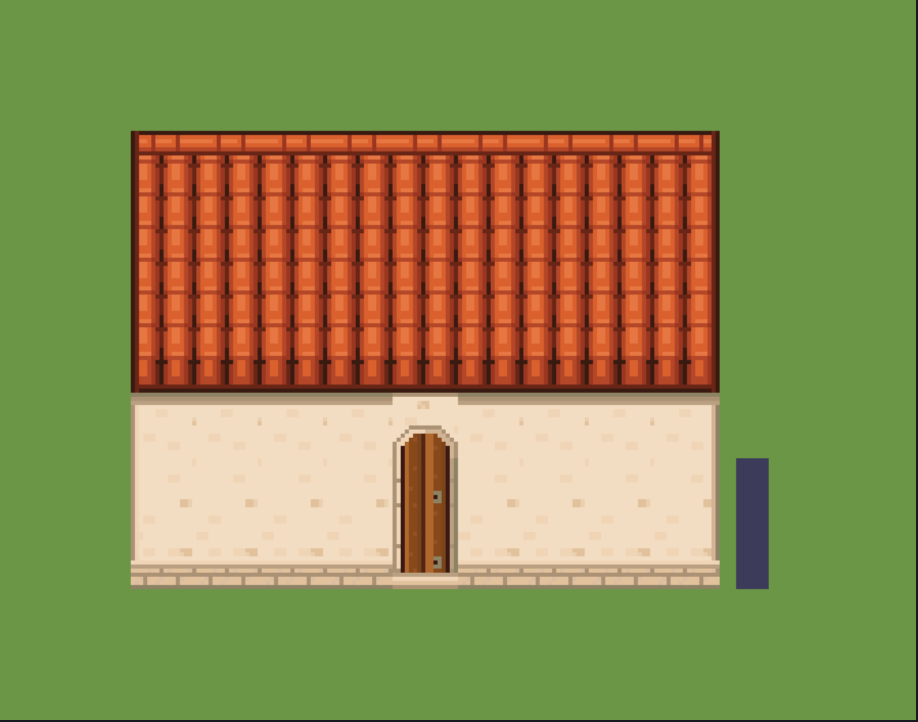
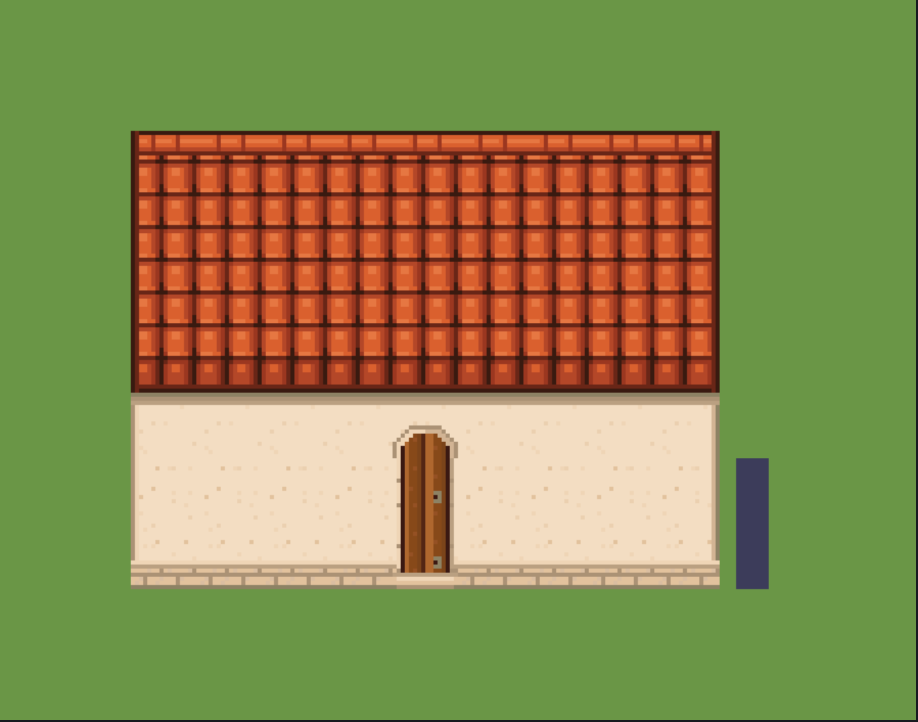
Draw doors and windows over the wall, and refine the kit's shading
Doors and windows are now overlays on the wall pieces, so the shadow under the
eave and the moulding between floors run on around them instead of breaking at
the door. The kit's tiles get clearer courses, the plaster calmer marks that do
not show the tile repeat, the floorboards plank ends at varied places, and the
wall tops a smoother surface.

diff --git a/Tools/Vulcanus/app/src/lib/buildings/layout.test.ts b/Tools/Vulcanus/app/src/lib/buildings/layout.test.ts
@@ -14,10 +14,10 @@ import {
 
 const farmhouse = () => floorPlan(farmhouseBuilding(), 0);
 
-/** The non-overlay pieces as rows of names, for comparing with the tables of the rules. */
+/** The pieces as rows of names, the last drawn on top, without the chimney and stairs standing on them. */
 const asRows = (placements: Placement[], width: number) => {
   const rows: string[][] = [];
-  for (const p of placements.filter((p) => !p.overlay)) {
+  for (const p of placements.filter((p) => !/^(chimney|stairs)/.test(p.piece))) {
     rows[p.row] ??= Array.from({ length: width }, () => '');
     rows[p.row][p.column] = p.piece;
   }
@@ -72,9 +72,14 @@ describe('exterior', () => {
     expect(rows[4]).toEqual(wall('wall_top', 9, { 6: 'door_lintel' }));
     expect(rows[5]).toEqual(wall('wall_mid', 9, { 2: 'window', 6: 'door_upper', 7: 'window' }));
     expect(rows[6]).toEqual(wall('wall_base', 9, { 6: 'door_lower' }));
-    expect(placements.filter((p) => p.overlay)).toEqual([
+    expect(placements.filter((p) => p.piece.startsWith('chimney'))).toEqual([
       { piece: 'chimney_top', column: 2, row: 0, overlay: true },
       { piece: 'chimney_bottom', column: 2, row: 1, overlay: true },
+    ]);
+    // The door is drawn over the wall, so the wall's shadow under the eave runs on behind it.
+    expect(placements.filter((p) => p.column === 6 && p.row === 4).map((p) => p.piece)).toEqual([
+      'wall_top_m',
+      'door_lintel',
     ]);
   });
 
@@ -175,7 +180,11 @@ describe('exterior', () => {
       'roof_eave_m',
     ]);
     // The chimney stands on the wing's ridge.
-    expect(placements.filter((p) => p.overlay).map((p) => [p.piece, p.column, p.row])).toEqual([
+    expect(
+      placements
+        .filter((p) => p.piece.startsWith('chimney'))
+        .map((p) => [p.piece, p.column, p.row]),
+    ).toEqual([
       ['chimney_top', 1, 3],
       ['chimney_bottom', 1, 4],
     ]);

diff --git a/Tools/Vulcanus/app/src/lib/buildings/layout.ts b/Tools/Vulcanus/app/src/lib/buildings/layout.ts
@@ -141,11 +141,11 @@ export function layoutExterior(building: Building): Placement[] {
     ];
     for (let column = 0; column < columns; column++)
       rows.forEach((kind, i) => {
-        let piece = `${kind}_${side(column, columns)}`;
+        place(`${kind}_${side(column, columns)}`, column, top + i);
+        // Doors and windows are drawn over the wall, so its shadows and mouldings run on around them.
         if (index === 0 && column === doorColumn)
-          piece = ['door_lintel', 'door_upper', 'door_lower'][i];
-        else if (i === 1 && windows.has(column)) piece = 'window';
-        place(piece, column, top + i);
+          place(['door_lintel', 'door_upper', 'door_lower'][i], column, top + i, true);
+        else if (i === 1 && windows.has(column)) place('window', column, top + i, true);
       });
   });
 

diff --git a/Tools/Vulcanus/app/src/lib/buildings/kitLayout.test.ts b/Tools/Vulcanus/app/src/lib/buildings/kitLayout.test.ts
@@ -13,7 +13,7 @@ describe('kit layout', () => {
     }
   });
 
-  it('has every piece the building rules use, with the chimney and stairs as the only overlays', () => {
+  it('has every piece the building rules use, with openings, the chimney and stairs as the overlays', () => {
     const names = new Set(KIT_LAYOUT.map((slot) => slot.name));
     for (const name of [
       'roof_ridge_l',
@@ -52,6 +52,10 @@ describe('kit layout', () => {
     ])
       expect(names.has(name), name).toBe(true);
     expect(KIT_LAYOUT.filter((slot) => slot.overlay).map((slot) => slot.name)).toEqual([
+      'door_lintel',
+      'door_upper',
+      'door_lower',
+      'window',
       'chimney_top',
       'chimney_bottom',
       'stairs_up',

diff --git a/Tools/Vulcanus/app/src/lib/buildings/kitLayout.ts b/Tools/Vulcanus/app/src/lib/buildings/kitLayout.ts
@@ -57,10 +57,10 @@ export const KIT_LAYOUT: readonly KitPieceSlot[] = [
   ...row3('wall_top', 3, 'wall'),
   ...row3('wall_mid', 4, 'wall'),
   ...row3('wall_base', 5, 'wall'),
-  slot('door_lintel', 4, 3, 'opening'),
-  slot('door_upper', 4, 4, 'opening'),
-  slot('door_lower', 4, 5, 'opening'),
-  slot('window', 5, 4, 'opening'),
+  slot('door_lintel', 4, 3, 'opening', { overlay: true }),
+  slot('door_upper', 4, 4, 'opening', { overlay: true }),
+  slot('door_lower', 4, 5, 'opening', { overlay: true }),
+  slot('window', 5, 4, 'opening', { overlay: true }),
   slot('gable_back_l', 7, 0, 'roof'),
   slot('gable_ridge', 8, 0, 'roof'),
   slot('gable_back_r', 9, 0, 'roof'),

diff --git a/Tools/Vulcanus/app/docs/building-editor.md b/Tools/Vulcanus/app/docs/building-editor.md
@@ -62,8 +62,8 @@ From the top, the exterior image has:
      needed so the gable has a middle) and side gable wings on both sides, each at least 2 columns wide.
 2. **The walls**, 3 rows per floor, top floor first: `wall_top` (under the eave) or `wall_band` (under the floor
    above), `wall_mid`, and `wall_base` for the ground floor or `wall_mid` above it. Each floor's south windows show as
-   `window` in its middle row; the entrance shows as `door_lintel`, `door_upper`, `door_lower` in the ground floor's
-   rows.
+   `window` over its middle row; the entrance shows as `door_lintel`, `door_upper`, `door_lower` over the ground
+   floor's rows. Doors and windows are overlays, so the wall's shadows and mouldings run on around them.
 3. **The chimney**: `chimney_top` on the highest roof row of its column and `chimney_bottom` below, drawn **over** the
    roof.
 
